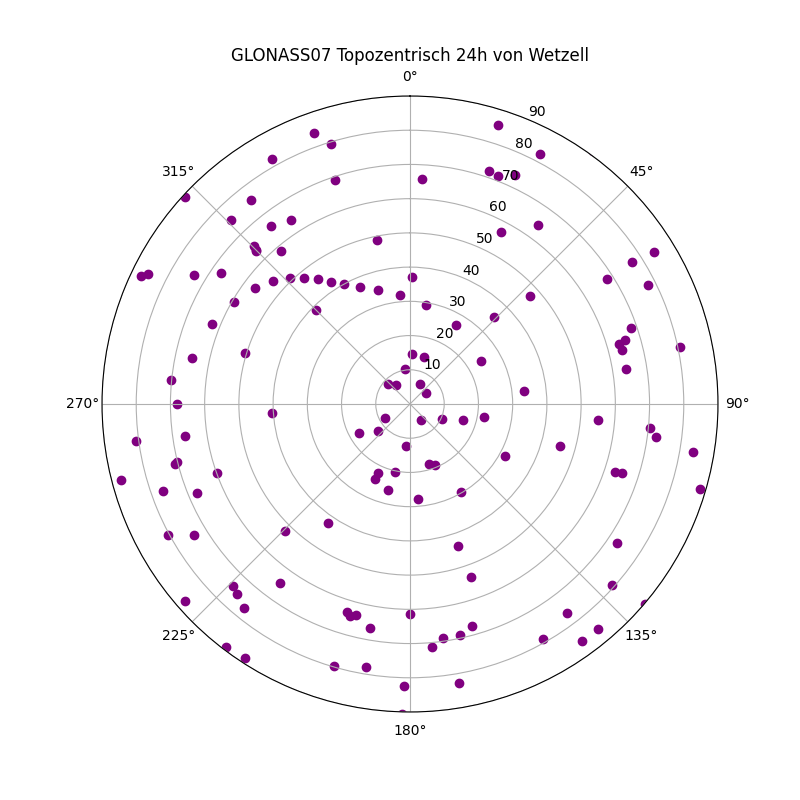
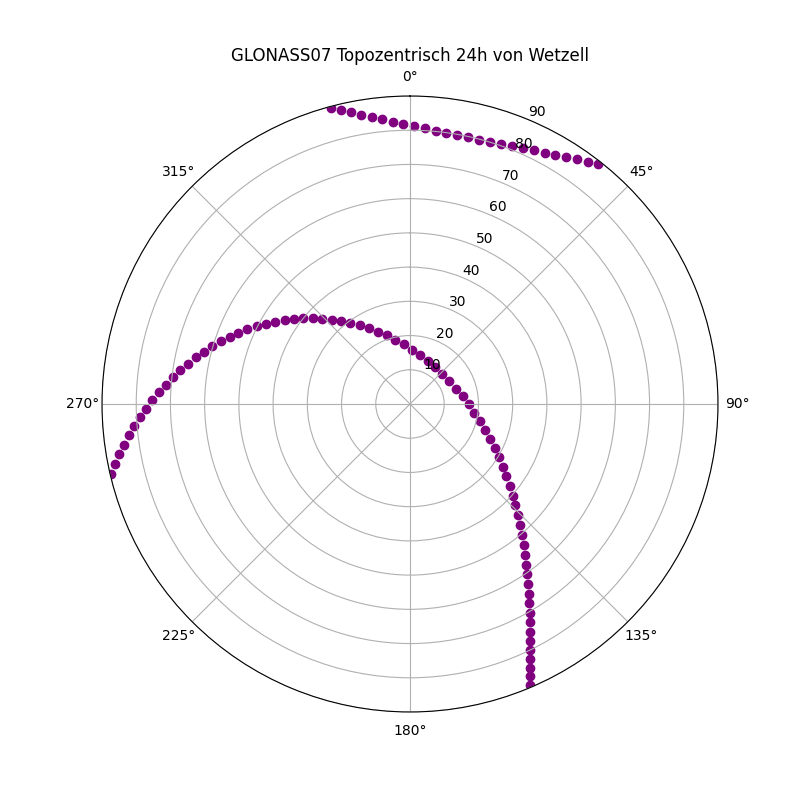
task 4

diff --git a/tasks.py b/tasks.py
@@ -72,24 +72,33 @@ def intertialToTopo(coordinates, satellite):
     zW = constants.R * math.sin(constants.WETTZELL["latitude"])
 
     p0 = numpy.matrix([xW, yW, zW])
+    print(constants.WETTZELL["latitude"], constants.WETTZELL["longitude"], xW, yW, zW, p0)
 
-    r2 = transformations.rotationmatrices.ry((math.pi / 2) - constants.WETTZELL["latitude"])
-    r3 = transformations.rotationmatrices.rz(constants.WETTZELL["longitude"])
-    mirror = numpy.matrix([[-1, 0, 0], [0, 1, 0], [0, 0, 1]])
+    r2 = transformations.rotationmatrices.ry((math.pi / 2) + constants.WETTZELL["latitude"])
+    r3 = transformations.rotationmatrices.rz(-constants.WETTZELL["longitude"])
+
+    r2test = transformations.rotationmatrices.ry(math.pi / 2 - math.pi / 4)
+    r3test = transformations.rotationmatrices.rz(math.pi / 2)
+
+    mirror = numpy.matrix([[1, 0, 0], [0, 1, 0], [0, 0, -1]])
     #print(p0)
     #newCoords = numpy.empty((0,3))
 
     for coordinate in coordinates:
         
         c1 = transformations.inertialToEarthfixed(coordinate, t)
-        
-        c2 = transpose(numpy.linalg.multi_dot([mirror, r2, r3, transpose(c1 - p0)]))
+        a = c1 - p0
+        d = (c1 - p0).transpose()
+        #c2 = transpose(numpy.linalg.multi_dot([mirror, r2, r3, transpose(c1 - p0)]))
+        c2 = mirror @ r2 @ r3 @ d
+        #c2.transpose()
 
         n.append(c2[0,0])
-        e.append(c2[0,1])
-        u.append(c2[0,2])
+        e.append(c2[1,0])
+        u.append(c2[2,0])
 
         if satellite == "Lageos1": t += 120
+        elif satellite == "TEST": t += 2400
         else: t += 300
     return n, e, u
 
@@ -124,21 +133,27 @@ def task4(satellites):
         az = []
         el = []
         
+        #n = n0.to_list()
+        #e = e0.to_list()
+        #u = u0.to_list()
+
         for (ni, ei, ui) in itertools.zip_longest(n, e, u):
             elevation = 0
             azimuth = 0
-            
-            if x > 0 and y >= 0: #1st quadrant
-                elevation = math.pi / 2 - math.atan(math.sqrt(ni**2 + ei**2) / ui) * 180 / math.pi
-                azimuth = math.atan(ei / ni) * 180 / math.pi
-            elif x < 0: #2nd / third quadrant
-                elevation = math.pi / 2 - (math.atan(math.sqrt(ni**2 + ei**2) + math.pi) / ui) * 180 / math.pi
-                azimuth = (math.atan(ei / ni) + math.pi) * 180 / math.pi
+            if ui < 0: # below horizon
+                continue 
+
+            if ei < 0 and ni > 0: #1st quadrant
+                azimuth = (-math.atan(ei / ni) * 180 / math.pi)
+            elif ni < 0: #2nd / 3rd quadrant
+                azimuth = ((-math.atan(ei / ni) + math.pi) * 180 / math.pi)
             else: #4th quadrant
-                azimuth = math.pi / 2 - (math.atan(math.sqrt(ni**2 + ei**2) + 2 * math.pi) / ui) * 180 / math.pi
-                elevation = (math.atan(ei / ni) + 2 * math.pi)* 180 / math.pi
-            
+                azimuth = ((-math.atan(ei / ni) + 2 * math.pi) * 180 / math.pi)
+
+            elevation = (math.atan(math.sqrt((ni ** 2) + (ei ** 2)) / ui)) * 180 / math.pi
+
             el.append(elevation)
-            az.append(azimuth)
+            az.append(azimuth * math.pi / 180)
+            print(ni, ei, ui, elevation, azimuth)
              
         plotter.polarPlot(satellite, "Topozentrisch 24h von Wetzell", az, el)

diff --git a/main.py b/main.py
@@ -11,11 +11,13 @@ GALILEO07   = np.loadtxt('Data/PE07asc.sec')
 QZSS03      = np.loadtxt('Data/PJ03asc.sec')
 Beidou07    = np.loadtxt('Data/PC07asc.sec')
 Lageos1     = np.loadtxt('Data/PL52asc.sec')
+TEST        = np.loadtxt('Data/TEST.sec')
 
 satellites = {"GPS07": GPS07, "GLONASS07": GLONASS07, "GALILEO07": GALILEO07, "QZSS03": GALILEO07, "Beidou07": Beidou07, "Lageos1": Lageos1}
-#satellites = {"GLONASS07": GLONASS07}
+#satellites = {"Lageos1": Lageos1}
+#satellites = {"TEST": TEST}
 
 #tasks.task1(satellites)
 #tasks.task2(satellites)
-tasks.task3(satellites)
-#tasks.task4(satellites)
+#tasks.task3(satellites)
+tasks.task4(satellites)

diff --git a/plotter.py b/plotter.py
@@ -43,8 +43,8 @@ def polarPlot(name, desc, az, el):
 
     ax.set_theta_zero_location("N")
     ax.set_theta_direction(-1)
-    ax.set_rmax(90)
-    plt.ylim(0,90)
+    #ax.set_rmax(90)
+    #plt.ylim(0,90)
     plt.title(name + " " + desc)
     #ax.set_yticks(5)
     #ax.tick_params(axis='both', labelsize=15)
